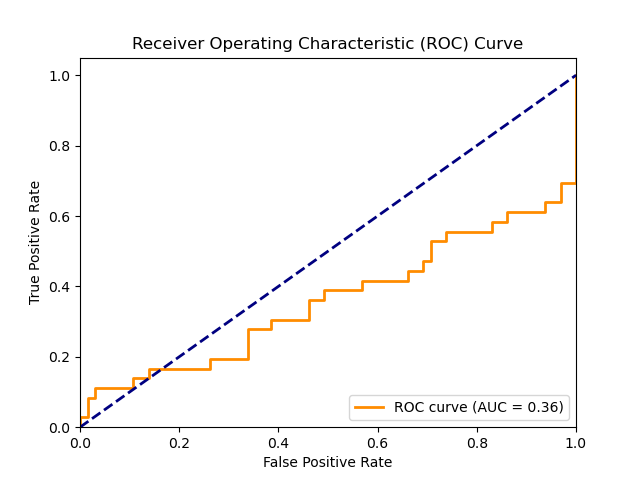
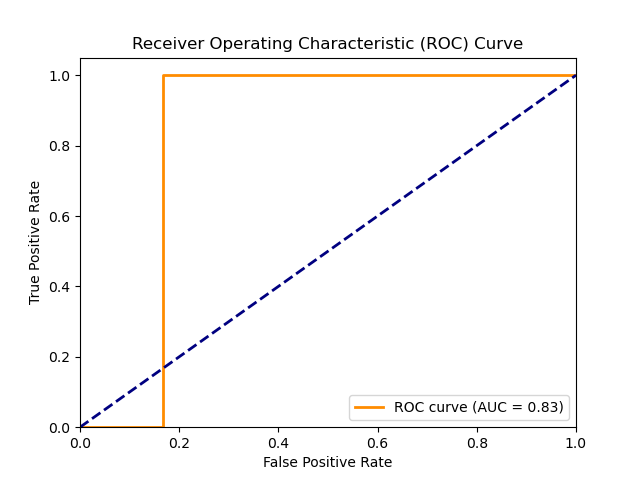
speedups and batching

diff --git a/telescope.py b/telescope.py
@@ -2,7 +2,7 @@ from transformers import AutoTokenizer, AutoModelForCausalLM, PreTrainedModel, P
 from transformers import BitsAndBytesConfig, QuantoConfig
 import torch
 
-
+import time
 from typing import Tuple, List, Union
 
 from utils import load_model_and_tokenizer, get_hugging_face_auth_token, create_attention_mask
@@ -66,16 +66,17 @@ class Telescope:
     def compute_score(self, reference_text: Union[str, List[str]], device: torch.device, use_binoculars=False, batch_size = 1) -> float:
         
         if use_binoculars == True:
-            score = self.compute_telescope_perplexity_unbatched(reference_text, self.performer_model, self.observer_model, self.performer_tokenizer, device)
+            score = self.compute_binoculars_perplexity(reference_text, self.performer_model, self.observer_model, self.performer_tokenizer, device)
         else:
-            score = self.compute_telescope_perplexity_batched(
-                reference_text, 
-                self.performer_model, 
-                self.observer_model, 
-                self.performer_tokenizer, 
-                batch_size=batch_size, 
-                device=device
-            )
+            score = self.compute_telescope_perplexity_unbatched(reference_text, self.performer_model, self.observer_model, self.performer_tokenizer, device)
+            # score = self.compute_telescope_perplexity_batched(
+            #     reference_text, 
+            #     self.performer_model, 
+            #     self.observer_model, 
+            #     self.performer_tokenizer, 
+            #     batch_size=batch_size, 
+            #     device=device
+            # )
 
         return score
  
@@ -182,7 +183,7 @@ class Telescope:
             
             # Tokenize each chunk
             reference_text_chunk_encoding: BatchEncoding = tokenizer(reference_text_chunk, return_tensors="pt", padding=True).to(device)
-            print(reference_text_chunk_encoding["attention_mask"])
+            # print(reference_text_chunk_encoding["attention_mask"])
 
             # Compute the logits from the model
             performer_outputs = performer_model(**reference_text_chunk_encoding)
@@ -199,14 +200,26 @@ class Telescope:
                 
                 # print(f"index: {index}, cross_perp: {torch.matmul(performer_next_tokens_logits_softmax, torch.log(observer_next_token_logits_softmax).T)}, normal perp: {torch.log(performer_next_tokens_logits_softmax[reference_text_tokens[index+1]])}")
                 total_cross_entropy_cross_perplexity -= torch.matmul(performer_next_tokens_logits_softmax, torch.log(observer_next_token_logits_softmax).reshape(1, -1).T) 
-                total_cross_entropy_normal_perplexity -= torch.log(performer_next_tokens_logits_softmax[reference_text_tokens[index+1 + chunk_index*batch_size]])
+                total_cross_entropy_normal_perplexity -= torch.log(performer_next_tokens_logits_softmax[reference_text_tokens[index + chunk_index*batch_size]])
 
+                print(f"index: {index}, cross: {torch.matmul(performer_next_tokens_logits_softmax, torch.log(observer_next_token_logits_softmax).T) }, normal: {torch.log(performer_next_tokens_logits_softmax[reference_text_tokens[index+1 + chunk_index*batch_size]])}")
+
+                del observer_next_token_logits_softmax, performer_next_tokens_logits_softmax, performer_next_token_logits, observer_next_token_logits
+                torch.cuda.empty_cache() 
+
+            del performer_outputs, observer_outputs, reference_text_chunk_encoding
+            torch.cuda.empty_cache() 
 
         # print(total_cross_entropy_normal_perplexity/  total_cross_entropy_cross_perplexity)
         return total_cross_entropy_normal_perplexity.cpu()/  total_cross_entropy_cross_perplexity.cpu()
         
-    
+        
+        
     @torch.inference_mode()
+    def get_model_output(self, model, input):
+        return model(input)
+        
+        
     def compute_telescope_perplexity_unbatched(
         self, 
         reference_text: str,
@@ -231,8 +244,8 @@ class Telescope:
             
             context_tokens = reference_text_tokens[:(token_index+1)].reshape(1, -1)
             
-            performer_outputs = performer_model(context_tokens)
-            observer_outputs = observer_model(context_tokens)
+            performer_outputs = self.get_model_output(performer_model, context_tokens)
+            observer_outputs = self.get_model_output(observer_model, context_tokens)
     
             performer_next_token_logits = performer_outputs.logits[:, -1, :]
             observer_next_token_logits = observer_outputs.logits[:, -1, :]
@@ -240,12 +253,20 @@ class Telescope:
             performer_next_tokens_logits_softmax = torch.softmax(performer_next_token_logits, dim=-1)
             observer_next_token_logits_softmax = torch.softmax(observer_next_token_logits, dim=-1)
             
-            print(f"index: {token_index}, cross_perp: {torch.matmul(performer_next_tokens_logits_softmax, torch.log(observer_next_token_logits_softmax).T)}, normal perp: {torch.log(performer_next_tokens_logits_softmax[:, token])}")
+            # print(f"index: {token_index}, cross_perp: {torch.matmul(performer_next_tokens_logits_softmax, torch.log(observer_next_token_logits_softmax).T)}, normal perp: {torch.log(performer_next_tokens_logits_softmax[:, token])}")
 
             total_cross_entropy_cross_perplexity -= torch.matmul(performer_next_tokens_logits_softmax, torch.log(observer_next_token_logits_softmax).T) 
             total_cross_entropy_normal_perplexity -= torch.log(performer_next_tokens_logits_softmax[:, token])
-        
-        print("hi")
+            
+            print(f"index: {token_index}, cross: {torch.matmul(performer_next_tokens_logits_softmax, torch.log(observer_next_token_logits_softmax).T) }, normal: {torch.log(performer_next_tokens_logits_softmax[:, token])}")
+
+            del observer_next_token_logits_softmax
+            del performer_next_tokens_logits_softmax
+            del performer_next_token_logits
+            del observer_next_token_logits
+            del context_tokens
+            torch.cuda.empty_cache() 
+            
         print(total_cross_entropy_normal_perplexity/  total_cross_entropy_cross_perplexity)
         return total_cross_entropy_normal_perplexity/  total_cross_entropy_cross_perplexity
     
@@ -387,9 +408,6 @@ class Telescope:
         print(total_cross_entropy_normal_perplexity/  total_cross_entropy_cross_perplexity)
         return total_cross_entropy_normal_perplexity/  total_cross_entropy_cross_perplexity
     
- 
-
-    
     
     
     @torch.inference_mode()
@@ -445,5 +463,7 @@ if __name__ == "__main__":
     # print(f"is ai generated: {is_ai_generated}")
     # print(f"score: {score}")
     
-    score = binoculars.compute_score(SENTENCE, "cuda:0", use_binoculars=True)
+    start_time = time.time()
+    score = binoculars.compute_score(SENTENCE, "cuda:0", batch_size=16, use_binoculars=False)
     print(f"score: {score}")
+    print(f"time taken: {time.time() - start_time}")

diff --git a/accuracy_test.py b/accuracy_test.py
@@ -1,0 +1,36 @@
+from torch import tensor
+import matplotlib.pyplot as plt
+# scores = [tensor([3.1538]), tensor([2.9367]), tensor([3.2513]), tensor([3.1549]), tensor([11.0467]), tensor([2.7770]), tensor([3.2411]), tensor([3.9420]), tensor([2.7951]), tensor([3.7432]), tensor([3.0816]), tensor([3.4448]), tensor([3.1055]), tensor([4.5465]), tensor([5.4150]), tensor([3.2648]), tensor([3.4142]), tensor([10.7822]), tensor([6.6682]), tensor([2.4658]), tensor([3.4590]), tensor([2.4618]), tensor([4.9129]), tensor([3.4066]), tensor([4.6021]), tensor([3.1536]), tensor([5.6573]), tensor([2.9206]), tensor([2.9717]), tensor([2.0928]), tensor([5.0104]), tensor([11.2434]), tensor([2.5615]), tensor([4.3404]), tensor([4.6811]), tensor([10.6517]), tensor([3.0735]), tensor([3.1299]), tensor([4.8839])]
+# y = [0.0, 0.0, 0.0, 0.0, 1.0, 0.0, 0.0, 1.0, 0.0, 0.0, 0.0, 0.0, 0.0, 0.0, 0.0, 0.0, 0.0, 1.0, 1.0, 0.0, 0.0, 0.0, 1.0, 0.0, 1.0, 0.0, 1.0, 0.0, 0.0, 0.0, 1.0, 1.0, 0.0, 0.0, 0.0, 1.0, 0.0, 0.0, 0.0]
+
+scores = [tensor([3.1538]), tensor([2.9367]), tensor([3.2513]), tensor([3.1549]), tensor([11.0467]), tensor([2.7770]), tensor([3.2411]), tensor([3.9420]), tensor([2.7951]), tensor([3.7432]), tensor([3.0816]), tensor([3.4448]), tensor([3.1055]), tensor([4.5465]), tensor([5.4150]), tensor([3.2648]), tensor([3.4142]), tensor([10.7822]), tensor([6.6682]), tensor([2.4658]), tensor([3.4590]), tensor([2.4618]), tensor([4.9129]), tensor([3.4066]), tensor([4.6021]), tensor([3.1536]), tensor([5.6573]), tensor([2.9206]), tensor([2.9717]), tensor([2.0928]), tensor([5.0104]), tensor([11.2434]), tensor([2.5615]), tensor([4.3404]), tensor([4.6811]), tensor([10.6517]), tensor([3.0735]), tensor([3.1299]), tensor([4.8839]), tensor([3.5570]), tensor([7.4805]), tensor([6.3900]), tensor([4.5716]), tensor([2.4932]), tensor([13.0964]), tensor([10.3443]), tensor([17.3527]), tensor([11.1151]), tensor([7.3778]), tensor([5.9526]), tensor([3.2292]), tensor([1.9012]), tensor([2.4952]), tensor([4.1507]), tensor([12.3709]), tensor([3.0811]), tensor([3.9796]), tensor([3.6556]), tensor([3.4051]), tensor([8.5672]), tensor([11.1846]), tensor([6.8793]), tensor([8.0031]), tensor([6.9249]), tensor([8.4572]), tensor([3.2961]), tensor([4.1558]), tensor([4.6234]), tensor([4.6123]), tensor([4.0350]), tensor([3.9019]), tensor([3.7937]), tensor([7.1587]), tensor([4.5970]), tensor([2.0219]), tensor([3.3171]), tensor([11.6243]), tensor([3.0335]), tensor([8.9751]), tensor([2.0744]), tensor([8.8452]), tensor([2.7774]), tensor([10.4637]), tensor([3.5441]), tensor([11.0477]), tensor([5.5824]), tensor([9.0073]), tensor([3.1962]), tensor([5.6195]), tensor([3.0048]), tensor([2.6169]), tensor([8.6402]), tensor([3.9251]), tensor([2.1585]), tensor([8.4096]), tensor([3.8667]), tensor([2.3945]), tensor([2.7821]), tensor([2.1680]), tensor([3.8829]), tensor([4.8681]), tensor([2.9491]), tensor([10.8823]), tensor([3.2444]), tensor([12.9574]), tensor([2.3936]), tensor([4.8852]), tensor([2.8786]), tensor([3.7873]), tensor([4.0330]), tensor([3.4220]), tensor([3.3100]), tensor([4.4643]), tensor([6.1323]), tensor([2.8511]), tensor([4.3431]), tensor([2.4926]), tensor([10.2121]), tensor([6.0098]), tensor([9.7280]), tensor([4.9470]), tensor([2.8331]), tensor([3.2318]), tensor([10.7636]), tensor([2.5670]), tensor([3.2860]), tensor([2.8547]), tensor([3.3164]), tensor([4.2082]), tensor([3.2527])]
+y = [0.0, 0.0, 0.0, 0.0, 1.0, 0.0, 0.0, 1.0, 0.0, 0.0, 0.0, 0.0, 0.0, 0.0, 0.0, 0.0, 0.0, 1.0, 1.0, 0.0, 0.0, 0.0, 1.0, 0.0, 1.0, 0.0, 1.0, 0.0, 0.0, 0.0, 1.0, 1.0, 0.0, 0.0, 0.0, 1.0, 0.0, 0.0, 0.0, 0.0, 1.0, 1.0, 0.0, 0.0, 1.0, 1.0, 1.0, 1.0, 1.0, 0.0, 0.0, 0.0, 0.0, 0.0, 1.0, 0.0, 0.0, 0.0, 0.0, 1.0, 1.0, 1.0, 1.0, 1.0, 1.0, 1.0, 0.0, 0.0, 0.0, 0.0, 0.0, 0.0, 1.0, 0.0, 0.0, 1.0, 1.0, 0.0, 1.0, 0.0, 1.0, 0.0, 1.0, 0.0, 1.0, 1.0, 1.0, 0.0, 1.0, 0.0, 0.0, 1.0, 0.0, 0.0, 1.0, 0.0, 0.0, 0.0, 0.0, 0.0, 1.0, 0.0, 1.0, 0.0, 1.0, 0.0, 0.0, 0.0, 0.0, 1.0, 0.0, 0.0, 0.0, 1.0, 0.0, 0.0, 0.0, 1.0, 1.0, 1.0, 1.0, 0.0, 0.0, 1.0, 0.0, 0.0, 0.0, 0.0, 0.0, 1.0]
+lengths = [6156, 4079, 2695, 3684, 3870, 1549, 2402, 457, 3147, 5265, 1071, 1484, 1256, 4498, 5048, 2269, 1989, 2371, 2355, 1586, 1410, 2880, 1441, 1358, 1376, 2051, 1643, 943, 2303, 2587, 1127, 3594, 1590, 1478, 3417, 2930, 1147, 2250, 5731, 1422, 1783, 1801, 2742, 2542, 2614, 3435, 3410, 3184, 4273, 5204, 3288, 1532, 2140, 2607, 2233, 1350, 2231, 1882, 1496, 2323, 3536, 1436, 2794, 2434, 1794, 1762, 4230, 3812, 1888, 898, 2240, 2961, 1917, 2972, 1281, 1784, 3045, 2478, 1952, 5429, 1062, 1947, 2352, 1669, 2421, 989, 825, 2255, 1445, 1408, 1596, 1888, 2558, 2122, 1886, 1041, 1448, 2919, 1794, 1669, 2734, 1072, 1897, 3120, 2579, 2949, 2295, 2913, 3301, 1839, 1462, 1901, 2594, 1146, 3203, 1833, 2369, 1627, 2400, 2804, 1428, 1612, 2282, 1555, 1615, 3544, 1081, 1266, 2365, 1990]
+
+def get_accuracy_for_length_cutoff(length_cutoff):
+    number_correct = 0
+    total = 0
+    for i in range(len(scores)):
+        if lengths[i] < length_cutoff: continue
+        total += 1
+        # if y_true[i] and y_scores[i] > 5.3: number_correct+=1
+        # if not y_true[i] and y_scores[i] < 5.3: number_correct+=1
+        
+        if y[i] and scores[i] > 5.5: number_correct+=1
+        if not y[i] and scores[i] < 5.5: number_correct+=1
+        
+    print(f"accuracy: {(number_correct)/(total)}")
+    return (number_correct)/(total)
+    
+    
+    
+length_cutoffs = [0, 100, 200, 300, 400, 500, 600, 700, 800, 900, 1000, 1100, 1200, 1300, 1400, 1500, 1600, 1700, 1800, 1900, 2000, 2100, 2200, 2300, 2400, 2500, 2600, 2700, 2800, 2900, 3000, 3100, 3200, 3300, 3400, 3500, 3600, 3700, 3800, 3900, 4000]
+
+accuracies = []
+for length_cutoff in length_cutoffs:
+    accuracies.append(get_accuracy_for_length_cutoff(length_cutoff))
+
+plt.plot(length_cutoffs, accuracies)
+plt.xlabel("Length Cutoffs in Character Count")
+plt.ylabel("Accuracies with 5.5 Decision Boundary")
+plt.savefig("length_cutoffs_accuracies")

diff --git a/telescope_validation_pipeline.py b/telescope_validation_pipeline.py
@@ -28,12 +28,24 @@ def plot_roc_curve(y_true, y_scores):
     print(f"Mean score: {np.mean(y_scores)}")
     print(f"Std score: {np.std(y_scores)}")
     
+    number_correct = 0
+    total = 0
+    for i in range(len(y_scores)):
+        total += 1
+        # if y_true[i] and y_scores[i] > 5.3: number_correct+=1
+        # if not y_true[i] and y_scores[i] < 5.3: number_correct+=1
+        
+        if y_true[i] and y_scores[i] < 0.9015310749276843: number_correct+=1
+        if not y_true[i] and y_scores[i] > 0.9015310749276843: number_correct+=1
+        
+    print(f"accuracy: {number_correct/total}")
+    
     # Check for NaN or infinity values
     if np.isnan(y_scores).any() or np.isinf(y_scores).any():
         print("Warning: y_scores contains NaN or infinity values")
         y_scores = np.nan_to_num(y_scores)
     
-    fpr, tpr, _ = roc_curve(y_true, y_scores)
+    fpr, tpr, thresholds = roc_curve(y_true, y_scores)
     roc_auc = auc(fpr, tpr)
    
     plt.figure()
@@ -55,7 +67,8 @@ def plot_roc_curve(y_true, y_scores):
 def main():
     hugging_face_auth_token = get_hugging_face_auth_token("hugging_face_auth_token.txt")
     
-    essay_dataset = pd.read_csv("validate_datasets/Essay_Dataset.csv").sample(frac=1).reset_index(drop=True)
+    essay_dataset = pd.read_csv("validate_datasets/AI_Human.csv").sample(frac=0.01).reset_index(drop=True)
+    # essay_dataset = pd.read_csv("validate_datasets/Essay_Dataset.csv").sample(frac=0.1).reset_index(drop=True)
 
     text_dataset = essay_dataset["text"]
     is_ai_generated_dataset = essay_dataset["generated"]
@@ -65,18 +78,26 @@ def main():
     
     labels = []
     telescope_scores = []
+    text_lengths = []
     
     start_time = time.time()
     for index, (text_data, is_ai_generated) in tqdm(enumerate(zip(text_dataset, is_ai_generated_dataset)), total=len(text_dataset)):
-        if index > 30: continue
+        if index > 200: continue
         
-        telescope_score = text_detector.compute_score(text_data, "cuda:0", batch_size=2, use_binoculars=True)
+        telescope_score = text_detector.compute_score(text_data, "cuda:0", batch_size=1, use_binoculars=False)
        
         print(f"is ai generated: {is_ai_generated}, score: {telescope_score}")
         labels.append(is_ai_generated)
-        telescope_scores.append(telescope_score)
+        telescope_scores.append(telescope_score.cpu()[0])
+        text_lengths.append(len(text_data))
+        print(telescope_scores)
+        print(labels)
+        print(text_lengths)
+        
+        if index > 1: plot_roc_curve(np.array(labels), np.array(telescope_scores))
     
     end_time = time.time()
+
     # Convert lists to numpy arrays
     labels = np.array(labels)
     telescope_scores = np.array(telescope_scores)
